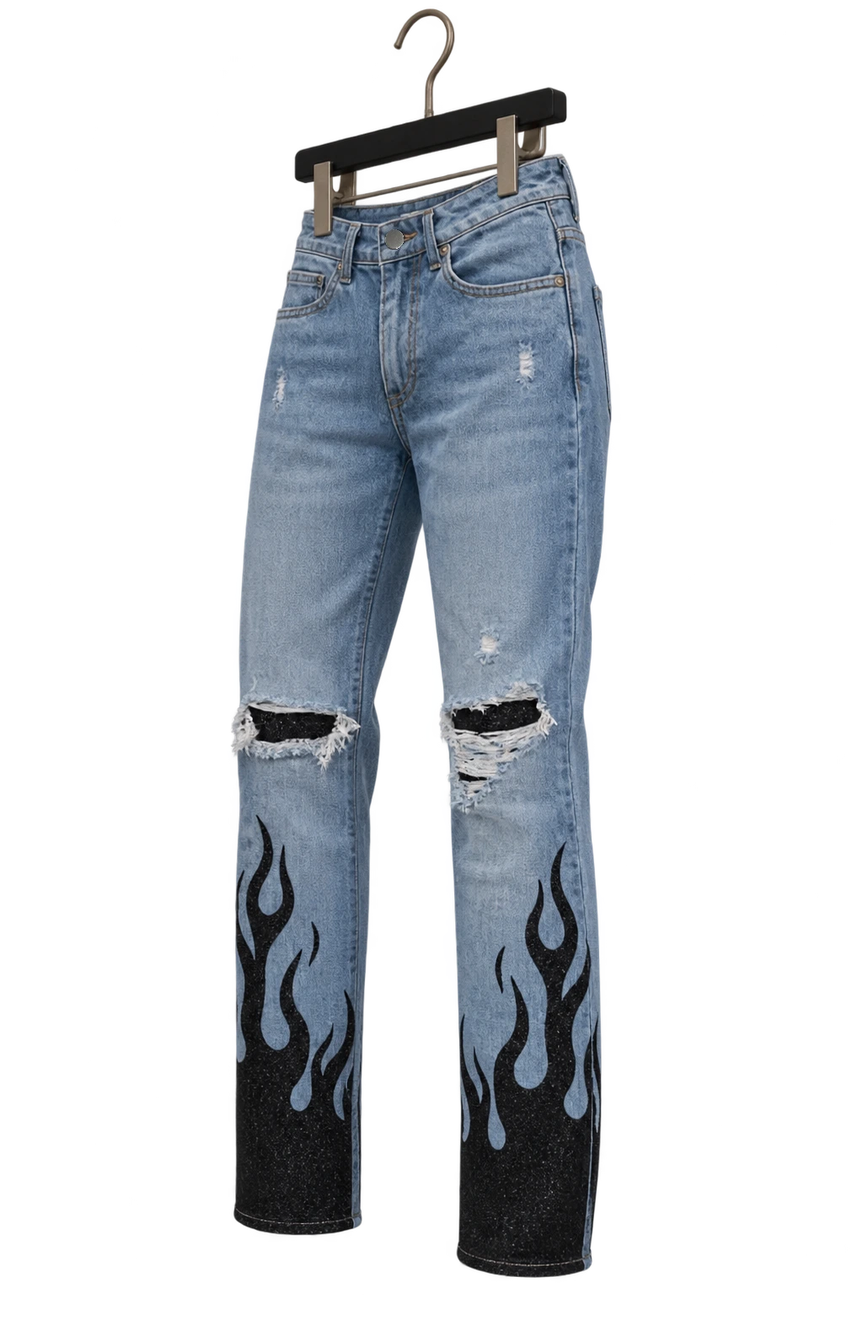
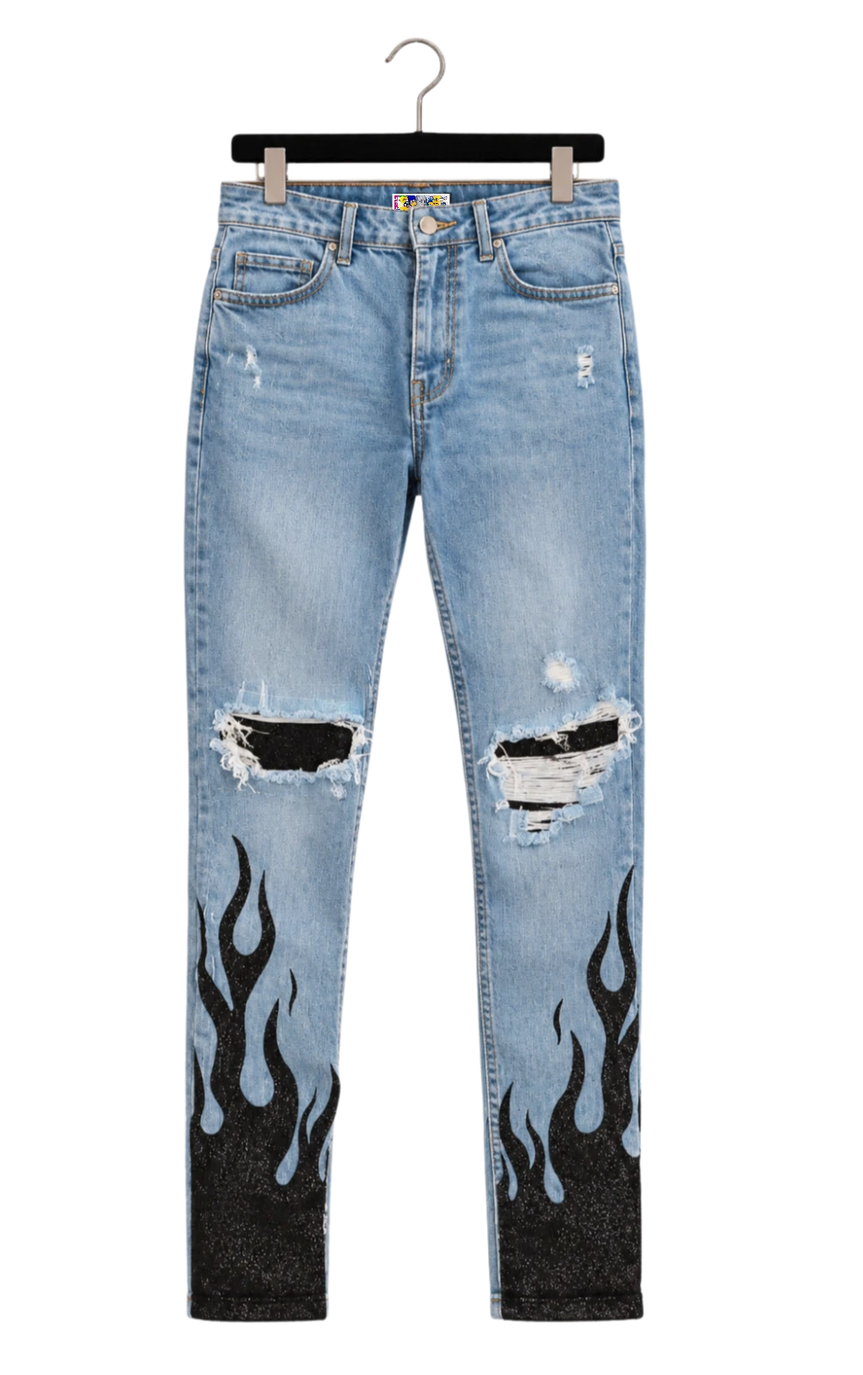
Fix swapped front/angle photos on Flame Jeans; sort men's sales rail jeans by size
Flame Jeans had its front and angle photos backwards. The jeans section
of the men's sales rail is now ordered by size (36, 38, 40, 42, 44, 46)
instead of grouping each product's size duplicates together, so the
Light Blue Ripped Jeans run no longer repeats the same photo 6 times
in a row.

Claude-Session: https://claude.ai/code/session_01S9cKy5g1AwDjzfqRU8tU8k

diff --git a/assets/women-sale-rail.js b/assets/women-sale-rail.js
@@ -8,26 +8,7 @@ const menProducts=[
   {"name": "PAINTED PANTS", "images": ["/assets/img/women-sale-rail/men-painted-pants-front.webp", "/assets/img/women-sale-rail/men-painted-pants-angle.webp"], "size": "M", "price": "150 RON", "oldPrice": "400 RON", "scale": 1, "ratios": [0.62734375, 0.62734375], "cartId": "shopify:archive-men-painted-pants", "salePrice": 150, "fit": "(Fits 170\u2013185 cm, 60\u201375 kg)"},
   {"name": "PAINTED PANTS", "images": ["/assets/img/women-sale-rail/men-painted-pants-front.webp", "/assets/img/women-sale-rail/men-painted-pants-angle.webp"], "size": "L", "price": "150 RON", "oldPrice": "400 RON", "scale": 1, "ratios": [0.62734375, 0.62734375], "cartId": "shopify:archive-men-painted-pants", "salePrice": 150, "fit": "(Fits 175\u2013190 cm, 75\u201385 kg)"},
   {"name": "PAINTED PANTS", "images": ["/assets/img/women-sale-rail/men-painted-pants-front.webp", "/assets/img/women-sale-rail/men-painted-pants-angle.webp"], "size": "XL", "price": "150 RON", "oldPrice": "400 RON", "scale": 1, "ratios": [0.62734375, 0.62734375], "cartId": "shopify:archive-men-painted-pants", "salePrice": 150, "fit": "(Fits 185\u2013195 cm, 85\u2013100 kg)"},
-  {"name": "DISTRESSED JEANS", "images": ["/assets/img/women-sale-rail/men-distressed-jeans-front.webp", "/assets/img/women-sale-rail/men-distressed-jeans-angle.webp"], "size": "38", "price": "150 RON", "oldPrice": "500 RON", "scale": 1, "ratios": [0.62734375, 0.62734375], "cartId": "shopify:archive-men-distressed-jeans", "salePrice": 150, "fit": "(Fits 165\u2013177 cm, 50\u201357 kg)"},
-  {"name": "GREY CHEETAH PATCH JEANS", "images": ["/assets/img/women-sale-rail/men-grey-cheetah-patch-jeans-front.webp", "/assets/img/women-sale-rail/men-grey-cheetah-patch-jeans-angle.webp"], "size": "40", "price": "200 RON", "oldPrice": "500 RON", "scale": 1, "ratios": [0.62734375, 0.62734375], "cartId": "bymarccc:sale-leopard-patch-jeans", "salePrice": 200, "fit": "(Fits 170\u2013180 cm, 55\u201363 kg)"},
-  {"name": "BYMARCCC M LOGO JEANS", "images": ["/assets/img/women-sale-rail/men-bymarccc-m-logo-jeans-front.webp", "/assets/img/women-sale-rail/men-bymarccc-m-logo-jeans-angle.webp"], "size": "40", "price": "200 RON", "oldPrice": "500 RON", "scale": 1, "ratios": [0.62734375, 0.62734375], "cartId": "bymarccc:sale-printed-jeans", "salePrice": 200, "fit": "(Fits 170\u2013180 cm, 55\u201363 kg)"},
-  {"name": "WHITE STRIPED JEANS", "images": ["/assets/img/women-sale-rail/men-white-striped-jeans-front.webp", "/assets/img/women-sale-rail/men-white-striped-jeans-angle.webp"], "size": "40", "price": "200 RON", "oldPrice": "500 RON", "scale": 1, "ratios": [0.62734375, 0.62734375], "cartId": "shopify:archive-men-white-striped-jeans", "salePrice": 200, "fit": "(Fits 170\u2013180 cm, 55\u201363 kg)"},
-  {"name": "RED WAIST CROSS JEANS", "images": ["/assets/img/women-sale-rail/men-red-waist-cross-jeans-front.webp", "/assets/img/women-sale-rail/men-red-waist-cross-jeans-angle.webp"], "size": "40", "price": "200 RON", "oldPrice": "500 RON", "scale": 1, "ratios": [0.62734375, 0.62734375], "cartId": "shopify:archive-men-red-waist-cross-jeans", "salePrice": 200, "fit": "(Fits 170\u2013180 cm, 55\u201363 kg)"},
-  {"name": "ALIEN BALLOON JEANS", "images": ["/assets/img/women-sale-rail/men-alien-balloon-jeans-front.webp", "/assets/img/women-sale-rail/men-alien-balloon-jeans-angle.webp"], "size": "40", "price": "200 RON", "oldPrice": "500 RON", "scale": 1, "ratios": [0.62734375, 0.62734375], "cartId": "shopify:archive-men-alien-balloon-jeans", "salePrice": 200, "fit": "(Fits 170\u2013180 cm, 55\u201363 kg)"},
-  {"name": "CARPENTER JEANS", "images": ["/assets/img/women-sale-rail/men-carpenter-jeans-front.webp", "/assets/img/women-sale-rail/men-carpenter-jeans-angle.webp"], "size": "40", "price": "200 RON", "oldPrice": "500 RON", "scale": 1, "ratios": [0.62734375, 0.62734375], "cartId": "shopify:archive-men-carpenter-jeans", "salePrice": 200, "fit": "(Fits 170\u2013180 cm, 55\u201363 kg)"},
-  {"name": "DISTRESSED JEANS", "images": ["/assets/img/women-sale-rail/men-distressed-jeans-front.webp", "/assets/img/women-sale-rail/men-distressed-jeans-angle.webp"], "size": "40", "price": "150 RON", "oldPrice": "500 RON", "scale": 1, "ratios": [0.62734375, 0.62734375], "cartId": "shopify:archive-men-distressed-jeans", "salePrice": 150, "fit": "(Fits 170\u2013180 cm, 55\u201363 kg)"},
-  {"name": "ART DEPT JEANS", "images": ["/assets/img/women-sale-rail/men-art-dept-jeans-front.webp", "/assets/img/women-sale-rail/men-art-dept-jeans-angle.webp"], "size": "40", "price": "200 RON", "oldPrice": "500 RON", "scale": 1, "ratios": [0.62734375, 0.62734375], "cartId": "bymarccc:sale-art-dept-jeans", "salePrice": 200, "fit": "(Fits 170\u2013180 cm, 55\u201363 kg)"},
-  {"name": "GREY JEANS", "images": ["/assets/img/women-sale-rail/men-grey-jeans-front.webp", "/assets/img/women-sale-rail/men-grey-jeans-angle.webp"], "size": "40", "price": "200 RON", "oldPrice": "450 RON", "scale": 1, "ratios": [0.62734375, 0.62734375], "cartId": "shopify:archive-men-grey-jeans", "salePrice": 200},
-  {"name": "PINK STRIPED JEANS", "images": ["/assets/img/women-sale-rail/men-pink-striped-jeans-front.webp", "/assets/img/women-sale-rail/men-pink-striped-jeans-angle.webp", "/assets/img/women-sale-rail/men-pink-striped-jeans-back.webp"], "size": "40", "price": "200 RON", "oldPrice": "500 RON", "scale": 1, "ratios": [0.62734375, 0.62734375, 0.62734375], "cartId": "bymarccc:sale-pink-striped-jeans", "salePrice": 200},
-  {"name": "CROSS PATCH JEANS", "images": ["/assets/img/women-sale-rail/men-white-cross-jeans-front.webp", "/assets/img/women-sale-rail/men-white-cross-jeans-angle.webp"], "size": "40", "price": "200 RON", "oldPrice": "500 RON", "scale": 1, "ratios": [0.62734375, 0.62734375], "cartId": "bymarccc:sale-cross-patch-jeans", "salePrice": 200},
-  {"name": "GLITTER CROSSES RELAXED JEANS", "images": ["/assets/img/women-sale-rail/men-glitter-crosses-jeans-front.webp", "/assets/img/women-sale-rail/men-glitter-crosses-jeans-angle.webp", "/assets/img/women-sale-rail/men-glitter-crosses-jeans-other-angle.webp"], "size": "40", "price": "200 RON", "oldPrice": "500 RON", "scale": 1, "ratios": [0.62734375, 0.62734375, 0.66640625], "cartId": "bymarccc:sale-glitter-crosses-relaxed-jeans", "salePrice": 200, "viewLabels": ["Front", "Side", "Side 2"]},
-  {"name": "BLACK PALM TREES JEANS", "images": ["/assets/img/women-sale-rail/men-black-palm-trees-jeans-front.webp", "/assets/img/women-sale-rail/men-black-palm-trees-jeans-angle.webp", "/assets/img/women-sale-rail/men-black-palm-trees-jeans-back.webp"], "size": "40", "price": "200 RON", "oldPrice": "500 RON", "scale": 1, "ratios": [0.62734375, 0.62734375, 0.62734375], "cartId": "shopify:archive-men-black-palm-trees-jeans", "salePrice": 200},
-  {"name": "SWAROVSKI JEANS", "images": ["/assets/img/women-sale-rail/men-swarovski-jeans-front.webp", "/assets/img/women-sale-rail/men-swarovski-jeans-angle.webp"], "size": "40", "price": "200 RON", "oldPrice": "500 RON", "scale": 1, "ratios": [0.62734375, 0.62734375], "cartId": "bymarccc:sale-studded-patch-jeans", "salePrice": 200},
-  {"name": "STAR JEANS", "images": ["/assets/img/women-sale-rail/men-star-jeans-front.webp", "/assets/img/women-sale-rail/men-star-jeans-angle.webp", "/assets/img/women-sale-rail/men-star-jeans-back.webp"], "size": "40", "price": "200 RON", "oldPrice": "500 RON", "scale": 1, "ratios": [0.62734375, 0.62734375, 0.62734375], "cartId": "bymarccc:sale-star-jeans", "salePrice": 200},
-  {"name": "BLUE STRIPED JEANS", "images": ["/assets/img/women-sale-rail/men-blue-striped-jeans-front.webp", "/assets/img/women-sale-rail/men-blue-striped-jeans-angle.webp"], "size": "40", "price": "200 RON", "oldPrice": "500 RON", "scale": 1, "ratios": [0.62734375, 0.62734375], "cartId": "bymarccc:sale-blue-striped-jeans", "salePrice": 200}, {"name": "BLACK STRIPED JEANS", "images": ["/assets/img/women-sale-rail/men-black-striped-jeans-front.webp", "/assets/img/women-sale-rail/men-black-striped-jeans-angle.webp"], "size": "40", "price": "200 RON", "oldPrice": "500 RON", "scale": 1, "ratios": [0.62745098, 0.66666667], "cartId": "shopify:archive-men-black-striped-jeans", "salePrice": 200}, {"name": "FLAME JEANS", "images": ["/assets/img/women-sale-rail/men-flame-jeans-front.webp", "/assets/img/women-sale-rail/men-flame-jeans-angle.webp"], "size": "38", "price": "200 RON", "oldPrice": "500 RON", "scale": 1, "ratios": [0.64605678, 0.62745098], "cartId": "shopify:archive-men-flame-jeans-38", "salePrice": 200}, {"name": "FLAME JEANS", "images": ["/assets/img/women-sale-rail/men-flame-jeans-front.webp", "/assets/img/women-sale-rail/men-flame-jeans-angle.webp"], "size": "40", "price": "200 RON", "oldPrice": "500 RON", "scale": 1, "ratios": [0.64605678, 0.62745098], "cartId": "shopify:archive-men-flame-jeans-40", "salePrice": 200}, {"name": "CROSS JEANS", "images": ["/assets/img/women-sale-rail/men-cross-jeans-front.webp", "/assets/img/women-sale-rail/men-cross-jeans-angle.webp"], "size": "42", "price": "200 RON", "oldPrice": "500 RON", "scale": 0.95, "ratios": [1.10125523, 0.64605678], "cartId": "shopify:archive-men-cross-jeans", "salePrice": 200},
-  {"name": "PALM TREES JEANS", "images": ["/assets/img/women-sale-rail/men-palm-trees-jeans-front.webp", "/assets/img/women-sale-rail/men-palm-trees-jeans-angle.webp", "/assets/img/women-sale-rail/men-palm-trees-jeans-back.webp"], "size": "40", "price": "200 RON", "oldPrice": "500 RON", "scale": 1, "ratios": [0.62734375, 0.62734375, 0.62734375], "cartId": "bymarccc:sale-palm-tree-jeans", "salePrice": 200}, {"name": "GREY ZEBRA PATCH JEANS", "images": ["/assets/img/women-sale-rail/men-grey-zebra-patch-jeans-front.webp", "/assets/img/women-sale-rail/men-grey-zebra-patch-jeans-angle.webp"], "size": "36", "price": "200 RON", "oldPrice": "500 RON", "scale": 1, "ratios": [0.64564943, 0.66666667], "cartId": "shopify:archive-men-grey-zebra-patch-jeans", "salePrice": 200}, {"name": "BLUE ZEBRA PATCH JEANS", "images": ["/assets/img/women-sale-rail/men-blue-zebra-patch-jeans-front.webp", "/assets/img/women-sale-rail/men-blue-zebra-patch-jeans-angle.webp"], "size": "38", "price": "200 RON", "oldPrice": "500 RON", "scale": 1, "ratios": [0.64564943, 0.66666667], "cartId": "shopify:archive-men-blue-zebra-patch-jeans", "salePrice": 200},
-  {"name": "LIGHT BLUE RIPPED JEANS", "images": ["/assets/img/women-sale-rail/men-light-blue-ripped-jeans-front.webp", "/assets/img/women-sale-rail/men-light-blue-ripped-jeans-angle.webp", "/assets/img/women-sale-rail/men-light-blue-ripped-jeans-front-alt.webp"], "size": "36", "price": "200 RON", "oldPrice": "500 RON", "scale": 1, "ratios": [0.62734375, 0.66640625, 0.66640625], "cartId": "shopify:archive-men-light-blue-ripped-jeans-36", "salePrice": 200, "viewLabels": ["Front", "Side", "Front 2"]}, {"name": "LIGHT BLUE RIPPED JEANS", "images": ["/assets/img/women-sale-rail/men-light-blue-ripped-jeans-front.webp", "/assets/img/women-sale-rail/men-light-blue-ripped-jeans-angle.webp", "/assets/img/women-sale-rail/men-light-blue-ripped-jeans-front-alt.webp"], "size": "38", "price": "200 RON", "oldPrice": "500 RON", "scale": 1, "ratios": [0.62734375, 0.66640625, 0.66640625], "cartId": "shopify:archive-men-light-blue-ripped-jeans-38", "salePrice": 200, "viewLabels": ["Front", "Side", "Front 2"]}, {"name": "LIGHT BLUE RIPPED JEANS", "images": ["/assets/img/women-sale-rail/men-light-blue-ripped-jeans-front.webp", "/assets/img/women-sale-rail/men-light-blue-ripped-jeans-angle.webp", "/assets/img/women-sale-rail/men-light-blue-ripped-jeans-front-alt.webp"], "size": "40", "price": "200 RON", "oldPrice": "500 RON", "scale": 1, "ratios": [0.62734375, 0.66640625, 0.66640625], "cartId": "shopify:archive-men-light-blue-ripped-jeans-40", "salePrice": 200, "viewLabels": ["Front", "Side", "Front 2"]}, {"name": "LIGHT BLUE RIPPED JEANS", "images": ["/assets/img/women-sale-rail/men-light-blue-ripped-jeans-front.webp", "/assets/img/women-sale-rail/men-light-blue-ripped-jeans-angle.webp", "/assets/img/women-sale-rail/men-light-blue-ripped-jeans-front-alt.webp"], "size": "42", "price": "200 RON", "oldPrice": "500 RON", "scale": 1, "ratios": [0.62734375, 0.66640625, 0.66640625], "cartId": "shopify:archive-men-light-blue-ripped-jeans-42", "salePrice": 200, "viewLabels": ["Front", "Side", "Front 2"]}, {"name": "LIGHT BLUE RIPPED JEANS", "images": ["/assets/img/women-sale-rail/men-light-blue-ripped-jeans-front.webp", "/assets/img/women-sale-rail/men-light-blue-ripped-jeans-angle.webp", "/assets/img/women-sale-rail/men-light-blue-ripped-jeans-front-alt.webp"], "size": "44", "price": "200 RON", "oldPrice": "500 RON", "scale": 1, "ratios": [0.62734375, 0.66640625, 0.66640625], "cartId": "shopify:archive-men-light-blue-ripped-jeans-44", "salePrice": 200, "viewLabels": ["Front", "Side", "Front 2"]}, {"name": "LIGHT BLUE RIPPED JEANS", "images": ["/assets/img/women-sale-rail/men-light-blue-ripped-jeans-front.webp", "/assets/img/women-sale-rail/men-light-blue-ripped-jeans-angle.webp", "/assets/img/women-sale-rail/men-light-blue-ripped-jeans-front-alt.webp"], "size": "46", "price": "200 RON", "oldPrice": "500 RON", "scale": 1, "ratios": [0.62734375, 0.66640625, 0.66640625], "cartId": "shopify:archive-men-light-blue-ripped-jeans-46", "salePrice": 200, "viewLabels": ["Front", "Side", "Front 2"]},
-  {"name": "BIKER JEANS", "images": ["/assets/img/women-sale-rail/men-blue-paint-splatter-jeans-front.webp", "/assets/img/women-sale-rail/men-blue-paint-splatter-jeans-angle.webp"], "size": "40", "price": "200 RON", "oldPrice": "600 RON", "scale": 1, "ratios": [0.62734375, 0.62734375], "cartId": "shopify:archive-men-blue-paint-splatter-jeans", "salePrice": 200},
+  {"name": "GREY ZEBRA PATCH JEANS", "images": ["/assets/img/women-sale-rail/men-grey-zebra-patch-jeans-front.webp", "/assets/img/women-sale-rail/men-grey-zebra-patch-jeans-angle.webp"], "size": "36", "price": "200 RON", "oldPrice": "500 RON", "scale": 1, "ratios": [0.64564943, 0.66666667], "cartId": "shopify:archive-men-grey-zebra-patch-jeans", "salePrice": 200}, {"name": "LIGHT BLUE RIPPED JEANS", "images": ["/assets/img/women-sale-rail/men-light-blue-ripped-jeans-front.webp", "/assets/img/women-sale-rail/men-light-blue-ripped-jeans-angle.webp", "/assets/img/women-sale-rail/men-light-blue-ripped-jeans-front-alt.webp"], "size": "36", "price": "200 RON", "oldPrice": "500 RON", "scale": 1, "ratios": [0.62734375, 0.66640625, 0.66640625], "cartId": "shopify:archive-men-light-blue-ripped-jeans-36", "salePrice": 200, "viewLabels": ["Front", "Side", "Front 2"]}, {"name": "DISTRESSED JEANS", "images": ["/assets/img/women-sale-rail/men-distressed-jeans-front.webp", "/assets/img/women-sale-rail/men-distressed-jeans-angle.webp"], "size": "38", "price": "150 RON", "oldPrice": "500 RON", "scale": 1, "ratios": [0.62734375, 0.62734375], "cartId": "shopify:archive-men-distressed-jeans", "salePrice": 150, "fit": "(Fits 165\u2013177 cm, 50\u201357 kg)"}, {"name": "FLAME JEANS", "images": ["/assets/img/women-sale-rail/men-flame-jeans-front.webp", "/assets/img/women-sale-rail/men-flame-jeans-angle.webp"], "size": "38", "price": "200 RON", "oldPrice": "500 RON", "scale": 1, "ratios": [0.62745098, 0.64605678], "cartId": "shopify:archive-men-flame-jeans-38", "salePrice": 200}, {"name": "BLUE ZEBRA PATCH JEANS", "images": ["/assets/img/women-sale-rail/men-blue-zebra-patch-jeans-front.webp", "/assets/img/women-sale-rail/men-blue-zebra-patch-jeans-angle.webp"], "size": "38", "price": "200 RON", "oldPrice": "500 RON", "scale": 1, "ratios": [0.64564943, 0.66666667], "cartId": "shopify:archive-men-blue-zebra-patch-jeans", "salePrice": 200}, {"name": "LIGHT BLUE RIPPED JEANS", "images": ["/assets/img/women-sale-rail/men-light-blue-ripped-jeans-front.webp", "/assets/img/women-sale-rail/men-light-blue-ripped-jeans-angle.webp", "/assets/img/women-sale-rail/men-light-blue-ripped-jeans-front-alt.webp"], "size": "38", "price": "200 RON", "oldPrice": "500 RON", "scale": 1, "ratios": [0.62734375, 0.66640625, 0.66640625], "cartId": "shopify:archive-men-light-blue-ripped-jeans-38", "salePrice": 200, "viewLabels": ["Front", "Side", "Front 2"]}, {"name": "GREY CHEETAH PATCH JEANS", "images": ["/assets/img/women-sale-rail/men-grey-cheetah-patch-jeans-front.webp", "/assets/img/women-sale-rail/men-grey-cheetah-patch-jeans-angle.webp"], "size": "40", "price": "200 RON", "oldPrice": "500 RON", "scale": 1, "ratios": [0.62734375, 0.62734375], "cartId": "bymarccc:sale-leopard-patch-jeans", "salePrice": 200, "fit": "(Fits 170\u2013180 cm, 55\u201363 kg)"}, {"name": "BYMARCCC M LOGO JEANS", "images": ["/assets/img/women-sale-rail/men-bymarccc-m-logo-jeans-front.webp", "/assets/img/women-sale-rail/men-bymarccc-m-logo-jeans-angle.webp"], "size": "40", "price": "200 RON", "oldPrice": "500 RON", "scale": 1, "ratios": [0.62734375, 0.62734375], "cartId": "bymarccc:sale-printed-jeans", "salePrice": 200, "fit": "(Fits 170\u2013180 cm, 55\u201363 kg)"}, {"name": "WHITE STRIPED JEANS", "images": ["/assets/img/women-sale-rail/men-white-striped-jeans-front.webp", "/assets/img/women-sale-rail/men-white-striped-jeans-angle.webp"], "size": "40", "price": "200 RON", "oldPrice": "500 RON", "scale": 1, "ratios": [0.62734375, 0.62734375], "cartId": "shopify:archive-men-white-striped-jeans", "salePrice": 200, "fit": "(Fits 170\u2013180 cm, 55\u201363 kg)"}, {"name": "RED WAIST CROSS JEANS", "images": ["/assets/img/women-sale-rail/men-red-waist-cross-jeans-front.webp", "/assets/img/women-sale-rail/men-red-waist-cross-jeans-angle.webp"], "size": "40", "price": "200 RON", "oldPrice": "500 RON", "scale": 1, "ratios": [0.62734375, 0.62734375], "cartId": "shopify:archive-men-red-waist-cross-jeans", "salePrice": 200, "fit": "(Fits 170\u2013180 cm, 55\u201363 kg)"}, {"name": "ALIEN BALLOON JEANS", "images": ["/assets/img/women-sale-rail/men-alien-balloon-jeans-front.webp", "/assets/img/women-sale-rail/men-alien-balloon-jeans-angle.webp"], "size": "40", "price": "200 RON", "oldPrice": "500 RON", "scale": 1, "ratios": [0.62734375, 0.62734375], "cartId": "shopify:archive-men-alien-balloon-jeans", "salePrice": 200, "fit": "(Fits 170\u2013180 cm, 55\u201363 kg)"}, {"name": "CARPENTER JEANS", "images": ["/assets/img/women-sale-rail/men-carpenter-jeans-front.webp", "/assets/img/women-sale-rail/men-carpenter-jeans-angle.webp"], "size": "40", "price": "200 RON", "oldPrice": "500 RON", "scale": 1, "ratios": [0.62734375, 0.62734375], "cartId": "shopify:archive-men-carpenter-jeans", "salePrice": 200, "fit": "(Fits 170\u2013180 cm, 55\u201363 kg)"}, {"name": "DISTRESSED JEANS", "images": ["/assets/img/women-sale-rail/men-distressed-jeans-front.webp", "/assets/img/women-sale-rail/men-distressed-jeans-angle.webp"], "size": "40", "price": "150 RON", "oldPrice": "500 RON", "scale": 1, "ratios": [0.62734375, 0.62734375], "cartId": "shopify:archive-men-distressed-jeans", "salePrice": 150, "fit": "(Fits 170\u2013180 cm, 55\u201363 kg)"}, {"name": "ART DEPT JEANS", "images": ["/assets/img/women-sale-rail/men-art-dept-jeans-front.webp", "/assets/img/women-sale-rail/men-art-dept-jeans-angle.webp"], "size": "40", "price": "200 RON", "oldPrice": "500 RON", "scale": 1, "ratios": [0.62734375, 0.62734375], "cartId": "bymarccc:sale-art-dept-jeans", "salePrice": 200, "fit": "(Fits 170\u2013180 cm, 55\u201363 kg)"}, {"name": "GREY JEANS", "images": ["/assets/img/women-sale-rail/men-grey-jeans-front.webp", "/assets/img/women-sale-rail/men-grey-jeans-angle.webp"], "size": "40", "price": "200 RON", "oldPrice": "450 RON", "scale": 1, "ratios": [0.62734375, 0.62734375], "cartId": "shopify:archive-men-grey-jeans", "salePrice": 200}, {"name": "PINK STRIPED JEANS", "images": ["/assets/img/women-sale-rail/men-pink-striped-jeans-front.webp", "/assets/img/women-sale-rail/men-pink-striped-jeans-angle.webp", "/assets/img/women-sale-rail/men-pink-striped-jeans-back.webp"], "size": "40", "price": "200 RON", "oldPrice": "500 RON", "scale": 1, "ratios": [0.62734375, 0.62734375, 0.62734375], "cartId": "bymarccc:sale-pink-striped-jeans", "salePrice": 200}, {"name": "CROSS PATCH JEANS", "images": ["/assets/img/women-sale-rail/men-white-cross-jeans-front.webp", "/assets/img/women-sale-rail/men-white-cross-jeans-angle.webp"], "size": "40", "price": "200 RON", "oldPrice": "500 RON", "scale": 1, "ratios": [0.62734375, 0.62734375], "cartId": "bymarccc:sale-cross-patch-jeans", "salePrice": 200}, {"name": "GLITTER CROSSES RELAXED JEANS", "images": ["/assets/img/women-sale-rail/men-glitter-crosses-jeans-front.webp", "/assets/img/women-sale-rail/men-glitter-crosses-jeans-angle.webp", "/assets/img/women-sale-rail/men-glitter-crosses-jeans-other-angle.webp"], "size": "40", "price": "200 RON", "oldPrice": "500 RON", "scale": 1, "ratios": [0.62734375, 0.62734375, 0.66640625], "cartId": "bymarccc:sale-glitter-crosses-relaxed-jeans", "salePrice": 200, "viewLabels": ["Front", "Side", "Side 2"]}, {"name": "BLACK PALM TREES JEANS", "images": ["/assets/img/women-sale-rail/men-black-palm-trees-jeans-front.webp", "/assets/img/women-sale-rail/men-black-palm-trees-jeans-angle.webp", "/assets/img/women-sale-rail/men-black-palm-trees-jeans-back.webp"], "size": "40", "price": "200 RON", "oldPrice": "500 RON", "scale": 1, "ratios": [0.62734375, 0.62734375, 0.62734375], "cartId": "shopify:archive-men-black-palm-trees-jeans", "salePrice": 200}, {"name": "SWAROVSKI JEANS", "images": ["/assets/img/women-sale-rail/men-swarovski-jeans-front.webp", "/assets/img/women-sale-rail/men-swarovski-jeans-angle.webp"], "size": "40", "price": "200 RON", "oldPrice": "500 RON", "scale": 1, "ratios": [0.62734375, 0.62734375], "cartId": "bymarccc:sale-studded-patch-jeans", "salePrice": 200}, {"name": "STAR JEANS", "images": ["/assets/img/women-sale-rail/men-star-jeans-front.webp", "/assets/img/women-sale-rail/men-star-jeans-angle.webp", "/assets/img/women-sale-rail/men-star-jeans-back.webp"], "size": "40", "price": "200 RON", "oldPrice": "500 RON", "scale": 1, "ratios": [0.62734375, 0.62734375, 0.62734375], "cartId": "bymarccc:sale-star-jeans", "salePrice": 200}, {"name": "BLUE STRIPED JEANS", "images": ["/assets/img/women-sale-rail/men-blue-striped-jeans-front.webp", "/assets/img/women-sale-rail/men-blue-striped-jeans-angle.webp"], "size": "40", "price": "200 RON", "oldPrice": "500 RON", "scale": 1, "ratios": [0.62734375, 0.62734375], "cartId": "bymarccc:sale-blue-striped-jeans", "salePrice": 200}, {"name": "BLACK STRIPED JEANS", "images": ["/assets/img/women-sale-rail/men-black-striped-jeans-front.webp", "/assets/img/women-sale-rail/men-black-striped-jeans-angle.webp"], "size": "40", "price": "200 RON", "oldPrice": "500 RON", "scale": 1, "ratios": [0.62745098, 0.66666667], "cartId": "shopify:archive-men-black-striped-jeans", "salePrice": 200}, {"name": "FLAME JEANS", "images": ["/assets/img/women-sale-rail/men-flame-jeans-front.webp", "/assets/img/women-sale-rail/men-flame-jeans-angle.webp"], "size": "40", "price": "200 RON", "oldPrice": "500 RON", "scale": 1, "ratios": [0.62745098, 0.64605678], "cartId": "shopify:archive-men-flame-jeans-40", "salePrice": 200}, {"name": "PALM TREES JEANS", "images": ["/assets/img/women-sale-rail/men-palm-trees-jeans-front.webp", "/assets/img/women-sale-rail/men-palm-trees-jeans-angle.webp", "/assets/img/women-sale-rail/men-palm-trees-jeans-back.webp"], "size": "40", "price": "200 RON", "oldPrice": "500 RON", "scale": 1, "ratios": [0.62734375, 0.62734375, 0.62734375], "cartId": "bymarccc:sale-palm-tree-jeans", "salePrice": 200}, {"name": "LIGHT BLUE RIPPED JEANS", "images": ["/assets/img/women-sale-rail/men-light-blue-ripped-jeans-front.webp", "/assets/img/women-sale-rail/men-light-blue-ripped-jeans-angle.webp", "/assets/img/women-sale-rail/men-light-blue-ripped-jeans-front-alt.webp"], "size": "40", "price": "200 RON", "oldPrice": "500 RON", "scale": 1, "ratios": [0.62734375, 0.66640625, 0.66640625], "cartId": "shopify:archive-men-light-blue-ripped-jeans-40", "salePrice": 200, "viewLabels": ["Front", "Side", "Front 2"]}, {"name": "BIKER JEANS", "images": ["/assets/img/women-sale-rail/men-blue-paint-splatter-jeans-front.webp", "/assets/img/women-sale-rail/men-blue-paint-splatter-jeans-angle.webp"], "size": "40", "price": "200 RON", "oldPrice": "600 RON", "scale": 1, "ratios": [0.62734375, 0.62734375], "cartId": "shopify:archive-men-blue-paint-splatter-jeans", "salePrice": 200}, {"name": "CROSS JEANS", "images": ["/assets/img/women-sale-rail/men-cross-jeans-front.webp", "/assets/img/women-sale-rail/men-cross-jeans-angle.webp"], "size": "42", "price": "200 RON", "oldPrice": "500 RON", "scale": 0.95, "ratios": [1.10125523, 0.64605678], "cartId": "shopify:archive-men-cross-jeans", "salePrice": 200}, {"name": "LIGHT BLUE RIPPED JEANS", "images": ["/assets/img/women-sale-rail/men-light-blue-ripped-jeans-front.webp", "/assets/img/women-sale-rail/men-light-blue-ripped-jeans-angle.webp", "/assets/img/women-sale-rail/men-light-blue-ripped-jeans-front-alt.webp"], "size": "42", "price": "200 RON", "oldPrice": "500 RON", "scale": 1, "ratios": [0.62734375, 0.66640625, 0.66640625], "cartId": "shopify:archive-men-light-blue-ripped-jeans-42", "salePrice": 200, "viewLabels": ["Front", "Side", "Front 2"]}, {"name": "LIGHT BLUE RIPPED JEANS", "images": ["/assets/img/women-sale-rail/men-light-blue-ripped-jeans-front.webp", "/assets/img/women-sale-rail/men-light-blue-ripped-jeans-angle.webp", "/assets/img/women-sale-rail/men-light-blue-ripped-jeans-front-alt.webp"], "size": "44", "price": "200 RON", "oldPrice": "500 RON", "scale": 1, "ratios": [0.62734375, 0.66640625, 0.66640625], "cartId": "shopify:archive-men-light-blue-ripped-jeans-44", "salePrice": 200, "viewLabels": ["Front", "Side", "Front 2"]}, {"name": "LIGHT BLUE RIPPED JEANS", "images": ["/assets/img/women-sale-rail/men-light-blue-ripped-jeans-front.webp", "/assets/img/women-sale-rail/men-light-blue-ripped-jeans-angle.webp", "/assets/img/women-sale-rail/men-light-blue-ripped-jeans-front-alt.webp"], "size": "46", "price": "200 RON", "oldPrice": "500 RON", "scale": 1, "ratios": [0.62734375, 0.66640625, 0.66640625], "cartId": "shopify:archive-men-light-blue-ripped-jeans-46", "salePrice": 200, "viewLabels": ["Front", "Side", "Front 2"]},
   {"name": "CROSS WAIST PAINTED SWEATPANTS", "images": ["/assets/img/women-sale-rail/men-cross-waist-sweatpants-front.webp", "/assets/img/women-sale-rail/men-cross-waist-sweatpants-angle.webp", "/assets/img/women-sale-rail/men-cross-waist-sweatpants-back.webp"], "size": "S", "price": "150 RON", "oldPrice": null, "scale": 1, "ratios": [0.62734375, 0.62734375, 0.62734375], "cartId": "shopify:archive-men-cross-waist-sweatpants", "salePrice": 150, "fit": "(Fits 170\u2013185 cm, 50\u201364 kg)"}, {"name": "CROSS SPLATTER SWEATPANTS", "images": ["/assets/img/women-sale-rail/men-cross-splatter-sweatpants-front.webp", "/assets/img/women-sale-rail/men-cross-splatter-sweatpants-back.webp"], "size": "S", "price": "200 RON", "oldPrice": "450 RON", "scale": 1, "ratios": [0.62745098, 0.62745098], "cartId": "shopify:archive-men-cross-splatter-sweatpants-s", "salePrice": 200}, {"name": "CROSS SPLATTER SWEATPANTS", "images": ["/assets/img/women-sale-rail/men-cross-splatter-sweatpants-front.webp", "/assets/img/women-sale-rail/men-cross-splatter-sweatpants-back.webp"], "size": "M", "price": "200 RON", "oldPrice": "450 RON", "scale": 1, "ratios": [0.62745098, 0.62745098], "cartId": "shopify:archive-men-cross-splatter-sweatpants-m", "salePrice": 200},
   {"name": "NOT FROM PARIS SWEATPANTS", "images": ["/assets/img/women-sale-rail/men-not-from-paris-sweatpants-front.webp"], "size": "M", "price": "150 RON", "oldPrice": null, "scale": 1, "ratios": [0.62734375], "cartId": "shopify:archive-men-not-from-paris-sweatpants", "salePrice": 150},
   {"name": "ARTWORK PANTS", "images": ["/assets/img/women-sale-rail/men-artwork-pants-front.webp?v=21", "/assets/img/women-sale-rail/men-artwork-pants-angle.webp?v=21"], "size": "S", "price": "150 RON", "oldPrice": "450 RON", "scale": 1, "ratios": [0.62734375, 0.62734375], "cartId": "shopify:archive-men-artwork-pants", "salePrice": 150, "sideAngle": 42, "fit": "(Fits 167\u2013183 cm, 50\u201364 kg)"},
